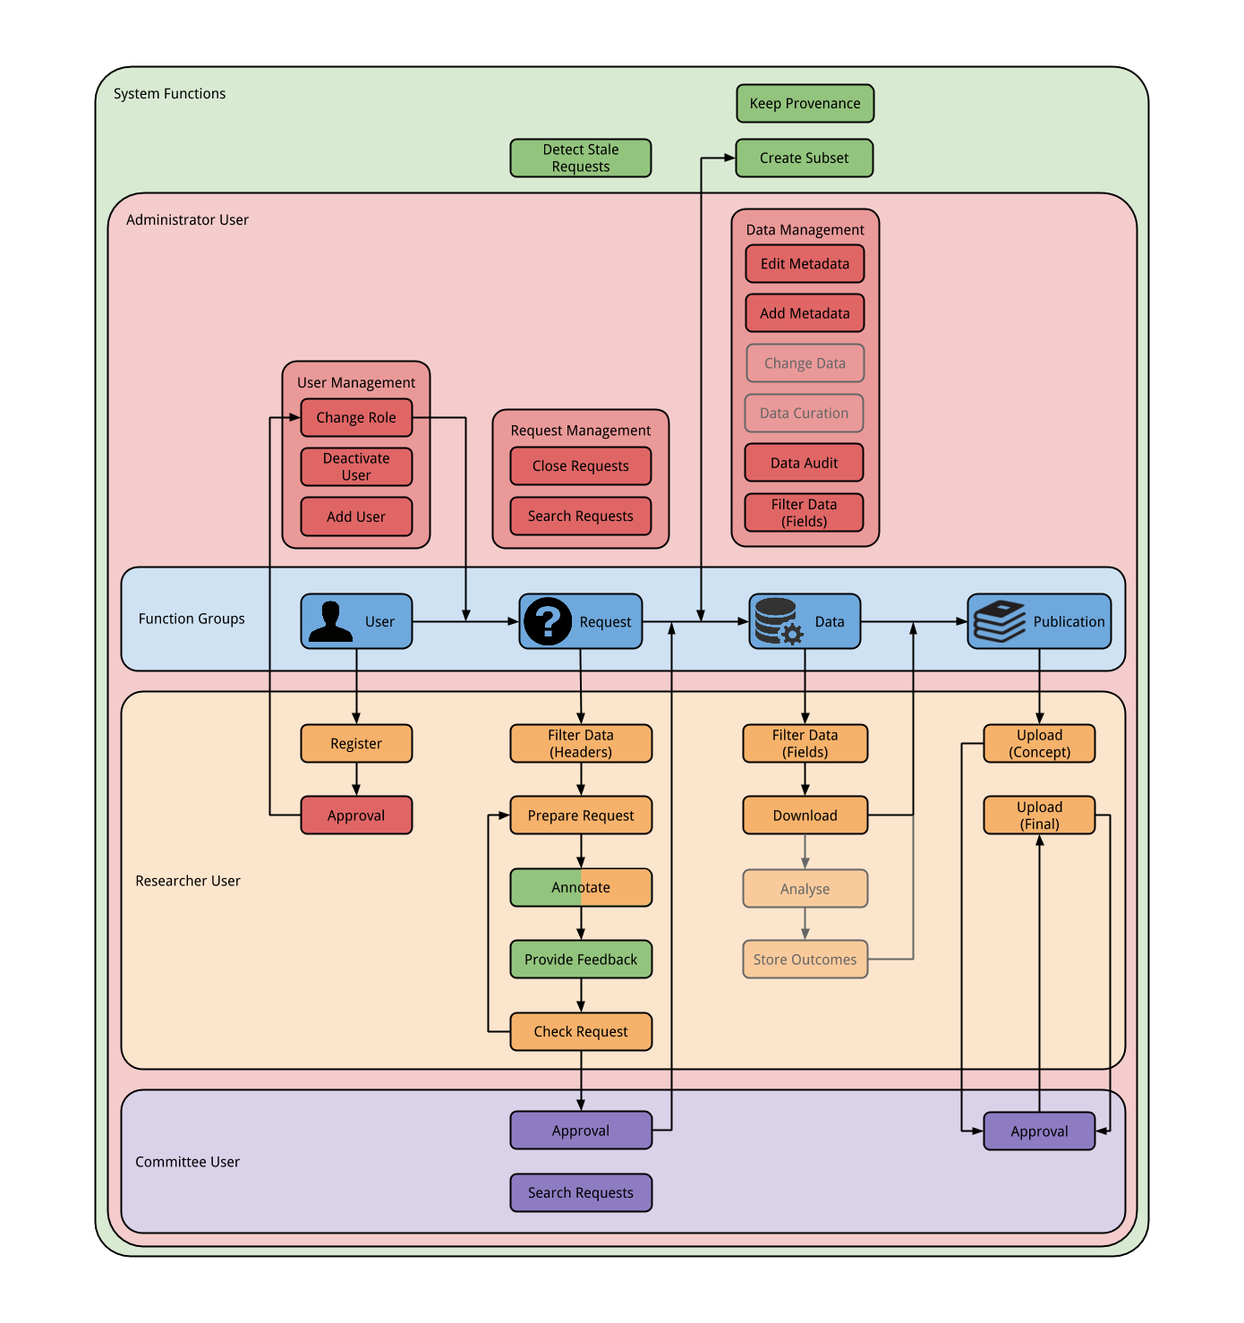
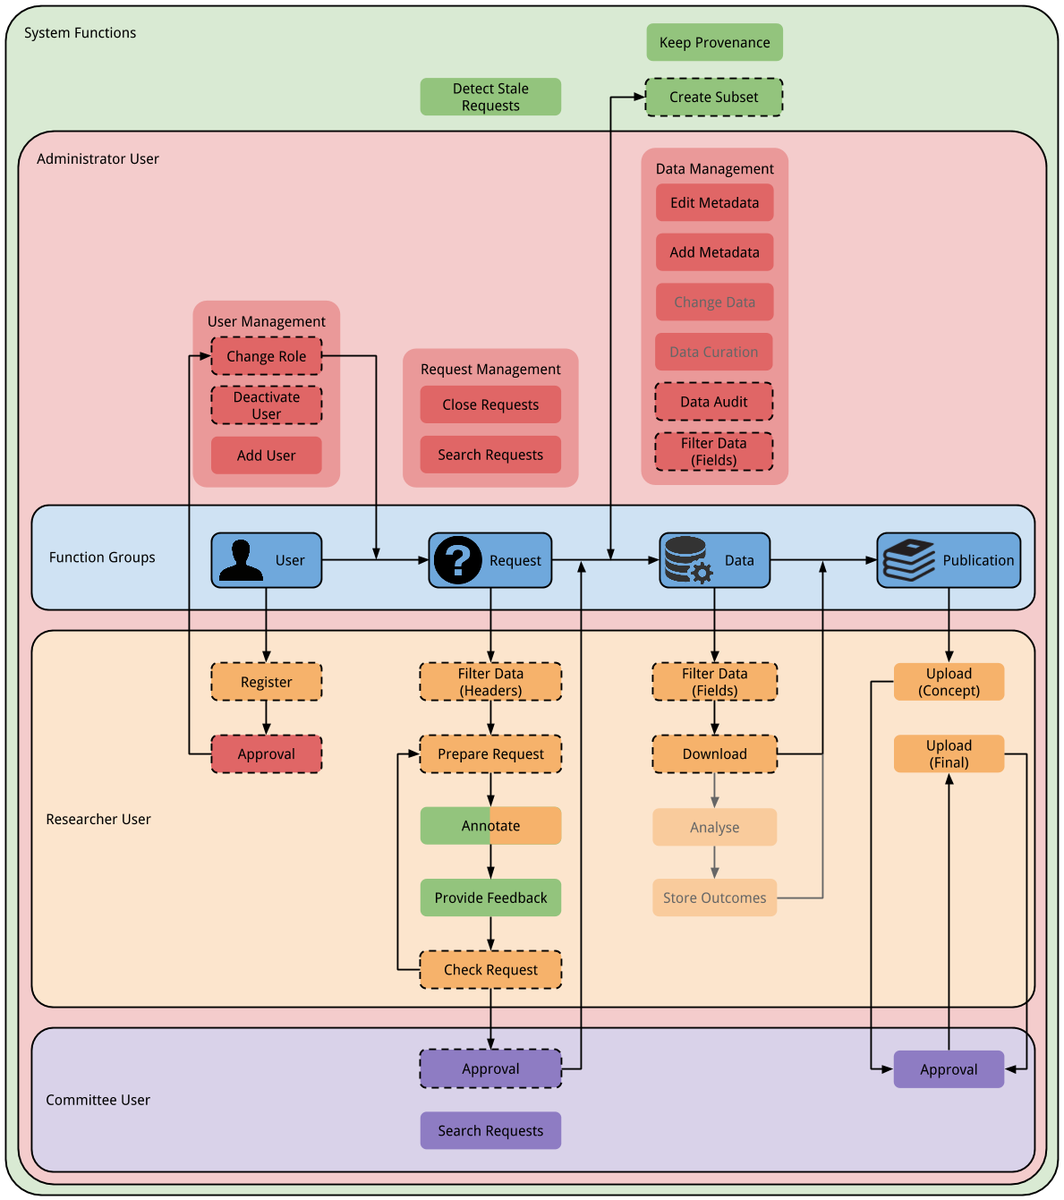
done up to section 3.2

diff --git a/partials/design-implementation/reuse-review.tex b/partials/design-implementation/reuse-review.tex
@@ -1,65 +1,79 @@
 \section{Technical Design Considerations}
 \label{reuse}
 
-%\subsection{Review}
-%\label{reuse-review}
+The data management is the most significant part of the \ivfsystem{} and therefore should be well implemented.
+Also implementation had to be done in a short time due to study planning restrictions, which were a result from the earlier mentioned data gathering issues.
 
-The data management
-is the most significant part of the \ivfsystem{} and therefore should be well implemented.
-Also implementation had to be done in a short time due to study planning restrictions.
+To speed up development multiple systems were considered and evaluated for reuse.
+Systems that have properties of clinical data management were sought for.
+From a list of systems three were included in an more in-depth evaluation presented below.
 
-Multiple systems were considered and evaluated for reuse.
-Because extensions would be needed, the system preferably had to be open-source.
-Three systems were included in an more in-depth evaluation presented below.
+\paragraph{Software reuse}
+The external software was identified through the paper of Leroux \cite{leroux2011}, in which five systems are listed: Oracle Clinical, Inform, Rave, DADOS Prospective, and OpenClinica.
+One system was found through internal communication within the AMC, namely Castor.
+The last system is an in-house project called Rosemary at the same department this study was conducted at.
 
-\silvia{put this info below in the right places}
-two externally developed open-source systems and one in-house project.
-The external software was identified through the paper of Leroux \cite{leroux2011}.
-
-\paragraph{External systems.}
-The external systems identified were OpenClinica and DADOS Prospective, 
-which are both open-source clinical trial management systems.
-OpenClinica \cite{} is ... - an online demo is available \cite{}.
-DADOS Prospective \cite{} is .....
-\silvia{maybe here you could list others that you have looked into, but that were no adequate? only names and references are ok. BTW: references to scientific pubs should be preferred to urls in all cases}
-
+All systems, except for Rosemary, are clinical trial management (CTM) software.
 Their focus lies on data entry and retrieval for low-level (researcher) users, and on research overview for high-level (management) users.
 Besides data entry, they also offer overviews displaying statistics on participants and the clinics they belong to, how many inclusions were made, follow-up percentages, etc.
+Rosemary is build to handle neuroimaging data and metadata, data analysis applications, and their execution on grid infrastructures.
 
-Data collection protocols can be defined per study in a very flexible manner.
+Four of the CTM systems are delivered under a proprietary license: Oracle Clinical, InForm, Castor, and Rave.
+Castor has a fair use for small trials, it is available for free (up to a maximum of 200 inclusions or 12 months study duration).
+However, the identified functions of the \ivfsystem{} demand that extensions have to be made.
+One firm requirement of the systems that are considered is that they have to be open-source to accommodate this.
+Also, no budget existed for the development of the system.
+Therefore, these systems were not included for an in-depth evaluation.
+
+\paragraph{Evaluation: external systems}
+The open-source external systems identified were OpenClinica\footnote{https://www.openclinica.com/} and DADOS Prospective \cite{dados}.
+Both systems were evaluated, OpenClinica based on their online demo and DADOS Prospective based on their publication.
+
+As said before the systems are CTM software and they both have approximately the same purpose.
+They provide per study data recording.
+Data collection protocols can be defined in a very flexible manner.
 After the protocol has been defined, it is fixed for all study participants.
-This is very useful in longer running (prospective) studies, where collection should be standardised for quality, analysis, and reuse purposes.
-In principle, as far as notable for OpenClinica, there are no features directly supporting data sharing or reuse.
-\silvia{this cannot be true. there is no concept of external people sharing data, but if people are made members of the study they can get access to the whole dataset. this is a different model than we want for our project, where there is no concept of study to create compartments for data and access control. please reformulate, better explaining the difference between a study-per-study recording system, as opposed to a registry of data that will serve external, ad-hoc data requests? }
+This is very useful in longitudinal studies, where collection should be standardised for study quality and analysis purposes.
+Also, the data model has already been proven by the fact that many researchers use these systems.
 
-\paragraph{In-house project: Rosemary.}
-\silvia{i think this can be improved. highlight metadata search functions}
-A system named Rosemary was built at the AMC to handle neuroimaging data and metadata, data analysis applications, and their execution on grid infrastructures.
-The data are brain images generated by Magnetic Resonance Imaging (MRI) scanners, and the 
-metadata refers to the subjects, the imaging session, etc. 
-These images are imported into the system from external data servers (XNAT\cite{}), selected by the user, and submitted for processing by analysis applications. Result are also stored in the system and used in further analysis.
-Input is restricted to automated functions and there are no manual input interfaces available.
-However, once data is in the system it allows for each data item to be used in access restricted subsets.
-This system data has interesting characteristics for metadata searching and ... ?
+In principle, as far as notable the desired options for data reuse are not supported.
+Reuse in these systems is at a study level, meaning that when a user is made a member of a study they can see and use all the data within.
+The philosophy for the \ivfsystem{} is to provide external data requests on a pool of data, which makes the model of the CTM systems less useful for this case.
 
-\paragraph{The better pick.}
-It quickly becomes apparent that no existing system is able to cover all the needed functionality, even when looking at only data management. \silvia{this sounds a bit out-of-the-blue without a clear definition of the functions you are after, and a consistent check for each one of the functions in the existing systems. if you would make a table it would be very clear to see that the systems do not fulfil, and which functions would be necessary to add in our prototype}
+\paragraph{Evaluation: In-house project}
+In Rosemary the data consists of brain images generated by Magnetic Resonance Imaging (MRI) scanners, and the metadata refers to the subjects, the imaging session, etc. 
+References to images are imported into the system from external data servers (XNAT \cite{xnat}), selected by the user, and submitted for processing by analysis applications. 
+Result are also stored in the system and used in further analysis.
+Data input is restricted to automated functions and there are no manual input interfaces available.
+
+The philosophy of Rosemary is to support researchers with managing of data, processing, and community.
+Data challenges are tackled by providing extensive search, filter, and selection functionality.
+Processing management is handled by automatically bundling submissions into processings which are then fed to one or multiple applications, this is rather uninteresting for the \ivfsystem{} case so it will not be discussed any further.
+And lastly, community is currently supported through descriptive notifications, messaging, and the notion of a `workspace'.
+A workspace contains a set of data, a researcher may define a workspace and share this with their colleagues by adding them as members.
+
+To fulfil the data management functionality each single item of data (called a `datum') can be supplemented with metadata.
+Data is given meaning through this metadata, this works at a human level but also at a system level.
+Metadata can be free text, but the system also uses some predefined objects.
+The most important metadata object is the `Tag', it can be appended to a datum and can fulfil multiple roles. 
+One of which being the identification of to what set of workspaces a datum belongs.
+
+Based on metadata the researcher can search and order their data.
+When data is added to the workspace a powerful search functionality is provided.
+It supports searches on the datum level but also on the metadata level.
+Initially the search is text-based and very fuzzy, but with the use of a query language the user can make the search specific.
+This query language ranges from keywords like `and/or' to restriction of search based on the name of a metadata field (\eg{} search for `patient123' but only in the field named `subject').
+
+\paragraph{The better pick}
 Based on several considerations, the decision was made to use the in-house Rosemary project for further development
-Flexibility in the code is important, \ie{} open-source, extensible, easy to develop. \silvia{but all 3 are open source, so no difference here}
-Next to this, short lines to expertise are useful for a quick development process, because once a (coding) problem is encountered it can be solved in a matter of hours.
-Lastly, during the evaluation process it became clear that the data model of Rosemary could be reused with minimal effort, \silvia{because... whereas the others ...}.
+The manner in which data and metadata are applied makes that the data model of Rosemary is very flexible.
+This is less useful for longer running projects which require very strict data entry rules.
+However, for the \ivfsystem{} data is an immutable set, namely the \projectdata{}.
+After a small survey it turned out that the dataset could be used directly with the existing data model.
 
-\silvia{this part was in next section, incorporate here somehow}
+Because Rosemary is an in-house project the survey to check the data model could be done directly with the lead developers, which brings us to the next consideration.
+Short lines of communication to expertise are useful for a quick development process, because once a (coding) problem is encountered it can be solved in a matter of hours.
 
-%\paragraph{Goodness of fit}
-\silvia{i have the feeling that this is still part of the previous section, to explain the choice. }
-To make clear how well Rosemary can be fitted to the \project{} first the functions of the current implementation will be described.
-As said in the previous section the system encompasses domain specific data and processing management. \silvia{you can forget processing management, right? focus focus focus ;-)}
-The shear amount of available data and metadata is what makes the data management in this case a challenge.
-
-Data management challenges are tackled by providing extensive search, filter, and selection functionality.
-Submission management is handled by automatically bundling submissions into processings which are then fed to one or multiple applications.
+Lastly, Rosemary tackles data management challenges by providing extensive search, filter, and selection functionality.
 Furthermore, notifications and messaging are supported.
-Notifications provide users with system status information. 
-For example, progress updates during a data import or when receiving a message.
-Messaging should enable collaborative work by wrapping research communication inside the same system as where the data resides.
+All of these functions are useful to some extent for the requirements of the \ivfsystem{}.

diff --git a/partials/design-implementation/reuse-rosemary.tex b/partials/design-implementation/reuse-rosemary.tex
@@ -1,14 +1,30 @@
-\section{Rosemary-based Design}
+\section{Rosemary Design}
 \label{reuse-rosemary}
 
+The overall workings of Rosemary have been described in the previous section.
+Below the architecture and data model will be explained before going into the implementation as done in the \ivfsystem{}, which will be described in the next section.
 
-Compared to the functional design (section \ref{function-design}) the most critical part of the system, data management, is mostly covered by Rosemary.
-Datasets are bound to \emph{workspaces}, which have an owner and members that can all view the data inside, effectively restricting data access.
-To enable  search and filtering, a specific model for raw data storage is used and supplemented with an extensive tagging system.
-The flexibility of this system means that part of the request and the whole data management requirements can be implemented with minimal changes.
+\begin{figure}[!hb]
+	\centering
+	\includegraphics[width=1.0\linewidth]{images/rosemary-architecture}
+	\caption{
+		Rosemary architecture with domain specific items removed.
+		Describes the implementation of the back-end and the front-end.
+		Together with the specific build tools used during development.
+	}
+	\label{fig:reuse-rosemary-architecture}
+\end{figure}
 
-User management can be totally reused, but it will need extensions to provide for the necessary user roles.
-Furthermore, request and publication management will need to be introduced into the system.
+\paragraph{Architecture}
+For the Rosemary back-end the Play Framework\footnote{https://www.playframework.com/} is used.
+It is written with the Scala\footnote{http://www.scala-lang.org/} programming language which is interoperable with Java.
+As a database mongoDB\footnote{https://www.mongodb.org/} is used, a document-oriented database.
+Communication between the back-end and the database is done with JSON\footnote{http://json.org/} and the Scala library `Salat' is used to serialise the JSON information into Scala classes.
+The back-end exposes a RESTful API which can be accessed through the front-end.
+
+The front-end is based on the AngularJS\footnote{https://angularjs.org/} framework and coded with Coffeescript\footnote{http://coffeescript.org/} which is compiled into JavaScript.
+For layout and styling HTML and Less\footnote{http://lesscss.org/} are used, Less compiles into CSS.
+To provide a pleasant user experience the front-end is developed as a web application, data is loaded asynchronous and stored at the client's side to give the feel of a native application.
 
 \begin{figure}[!hb]
 	\centering
@@ -21,16 +37,21 @@ Furthermore, request and publication management will need to be introduced into 
 	\label{fig:reuse-rosemary-dm}
 \end{figure}
 
-\silvia{i believe that from here you actually describe the prototype. keep clear what was rosemary, what is new, or what has been adapted. maybe it is not so relvant to stress the differences, but to have a complete and understandable explantion of what you have done}
 \paragraph{Data model}
-Figure \ref{fig:reuse-rosemary-dm} depicts the Rosemary data model where the (\ie{} domain specific) items are removed.
-%A full view of the data model can be seen in appendix \ref{unedited-datamodel}.
-Implementation is done in mongoDB, a document-oriented database \cite{}.
-\silvia{present the main entities of the model here. the figure should stay in the body}
+Figure \ref{fig:reuse-rosemary-dm} depicts the Rosemary data model where the domain specific items are removed.
+This model describes six main data objects: {\tt Datum}, {\tt Tag}, {\tt Rights}, {\tt User}, {\tt Notification}, and {\tt Thread}.
+The {\tt Tag}, {\tt Notification}, and {\tt Rights} objects are inherited to describe a specific instance, for example the {\tt WorkspaceTag} is a {\tt Tag}.
+
+A short description of the main object will be given for better understanding of the model.
+A {\tt Datum} is a single piece of data and its metadata, for the Rosemary case a {\tt Datum} might be a reference to an MRI image and metadata about the scanned patient.
+{\tt Datum}s may be tagged with the {\tt Tag} object, for example, the {\tt UserTag} is a tag defined by the user and attached to a set of {\tt Datum}s for identification.
+{\tt Tag}s are also used to manage access rights, each tag has a specific {\tt Rights} attached to it.
+Based on the set of {\tt User}s which is assigned to the {\tt Rights} the system can restrict access to certain data.
+The {\tt Notification} object stores data about process milestones which can be displayed in the user interface, for example when a message is send.
+Lastly, the {\tt Thread} keeps track of messages send back and forth in conversations.
+
 The data model and its implementation provide some interesting possibilities.
-%What is described in figure \ref{fig:reuse-rosemary-dm} 
-A {\tt Datum} is a single piece of raw data, \ie{} a row in a relational database.
-This data can be tracked and reused endlessly by applying a {\tt Tag} object.
-For example, access control can be applied by tagging a {\tt Datum} with a {\tt WorkspaceTag} which is owned by a {\tt User}.
+For example, a {\tt Datum} can be tracked and reused endlessly by applying a {\tt Tag} object.
+One use of this is access control, which can be applied by tagging a {\tt Datum} with a {\tt WorkspaceTag} which is owned by a {\tt User}.
 Many different constructs of this sort can be achieved without ever touching the structure of the actual model itself.
-The reuse in the \ivfsystem{} relies heavily on this concept, which means only slight changed had to be made to the original data objects.
+%The reuse in the \ivfsystem{} relies heavily on this concept, which means only slight changed had to be made to the original data objects.

diff --git a/partials/design-implementation/function-design.tex b/partials/design-implementation/function-design.tex
@@ -1,18 +1,20 @@
-\silvia{i think you can start directly with text, w/o subsection. every chapter needs an intro anyways}
+% Then here in sect 3 you say that the prototype will address part of the requirements (be explicit about which ones) and move on with the system design.
 
-\silvia{there is too much talking about the brainstorm in this section. the requirements (from brainstorm, literature etc) should become clear in section 2, and then here you just refer to the requirements. which makes me realize that one subsection of chap 2 should be "system requirements", where you put the final set. i guess in sect 2 there are functional requirments (the function grpups) and non-functional - security, etc. Then here in sect 3 you say that the prototype will address part of the requirements (be explicit about which ones) and move on with the system design. i think fig 3.1 is the best to illustrate the flow and the functions (just make sure it is complete or put clearly in the caption which part is missing}
+From requirement analysis the development moves on to the design of the system and implementation.
+First the functional design will be described, after that the specific decisions considering implementation are discussed.
+These concern reuse of existing software, the data model, the system's architecture, and user-interface design.
 
-\paragraph{Visualised}
-
-Each of the functions are mapped out according to the following story:
+The last chapter resulted in a compact list of requirements, which are now translated into functions.
+An unordered list of functions can be found in appendix \ref{identified-functions}, however it is more interesting to order these functions according to a workflow.
+This is done according to the following research cycle story:
 
 \begin{quotation}
-	\noindent A researcher wants to investigate a certain hypothesis on the \project{} dataset.
+	\noindent{} A researcher wants to investigate a certain hypothesis on the \project{} dataset.
 	He or she needs to register an account with the system which is then checked and approved by the data manager.
 	
 	Next, the researcher formulates a data request using the system.
 	From the data dictionary the researcher searches (filters) for the appropriate data items (names of data items are called ``headers'').
-	The researcher creates the request with the necessary information required by the committee to decide (data headers and research question).
+	The researcher creates the request document with the necessary information required by the committee to decide.
 	The system provides feedback based on the selected fields and automatically detected keywords.
 	Based on this feedback the researcher can edit the request or send it for approval.
 	The committee checks and approves the request.
@@ -21,12 +23,14 @@ Each of the functions are mapped out according to the following story:
 	The researcher filters this subset and downloads a selection of the data.
 	Another possible path is that the researcher prepares the data for analysis on the system and the outcomes are stored.
 	
-	To complete the request the researcher uploads the, paper which is then again approved by the committee.
+	To complete the request the researcher uploads the paper which is then again approved by the committee.
 \end{quotation}
 
-In figure \ref{fig:functions-workflow} each of the functions belong to a certain actor (human or system), this is depicted by the colour of the actor block (light shade) and the corresponding colour of the function block (dark shade).
+\noindent{} The resulting of the mapping is shown in figure \ref{fig:functions-workflow}.
+Each of the functions belong to a certain actor (human or system), this is depicted by the colour of the actor block (light shade) and the corresponding colour of the function block (dark shade).
 The function groups are exempted from this rule as they only exist to give structure to the figure.
 During the brainstorm session weight was given to the requirements, functions with less need for immediate implementation are displayed greyed-out (\ie{} change data, data curation, analyse, store outcomes).
+Not all requirements were implemented in the final prototype, functions that were included have a dashed border.
 
 \begin{figure}[!htb]
 	\centering
@@ -35,6 +39,7 @@ During the brainstorm session weight was given to the requirements, functions wi
 		Gateway functions according to function groups, actors, and usage within the research workflow.
 		Vertical columns represent different function groups, colours are used for different user roles, and arrows indicate sequence of actions.
 		Greyed-out functions are deemed less important, which was an outcome of the brainstorm session (see section \ref{brainstorm}).
+		Functions that were included in the final prototype are marked with a dashed border.
 	}
 	\label{fig:functions-workflow}
 \end{figure}

diff --git a/partials/design-implementation/implementation-processes.tex b/partials/design-implementation/implementation-processes.tex
@@ -1,16 +1,9 @@
 \section{Implementation}
 
-%\subsection{Processes}
-
-\begin{figure}[!b]
-	\centering
-	\includegraphics[width=1.0\linewidth]{images/functions-implemented}
-	\caption{
-		Mapping of functions after implementation considerations according to function groups, actors, and research workflow.
-		Greyed-out functions are implemented through place holders. \silvia{so they are not in prototype? and what is the difference between this and 3.1?}
-	}
-	\label{fig:functions-implemented}
-\end{figure}
+% Functions as implemented
+% Architecture as implemented
+% Datamodel as implemented
+% Design as implemented
 
 \silvia{instead of presenting what has been done, this section is about what has not been done. it does not seem useful to spend so much space on describing things that were not done.
 please make sure to describe the complete story (all requirements and all functions) in one place, and mark those that were not included in the prototype. the discussion about what was included and what was not can be part of discussion and conclusions - and not mixed in the implementation description. here you should clearly present what have been done, with technical details but with scientific language (methods, results, evaluation). }

diff --git a/partials/requirements/final-concept.tex b/partials/requirements/final-concept.tex
@@ -32,3 +32,11 @@ Also data about the request and publications is now stored in the system, these 
 A lot of differences exist between the schema before and after the brainstorm, an side-by-side comparison is supplied in appendix \ref{brainstorm-before-after}.
 The main assumption of a data support system had the wrong focus, it is now supplemented with increased request management and the addition of user and publication management.
 While data handling functions like searching, security restriction, auditing, or annotating with metadata are important in this system there are more side effects of research that have to be taken into account.
+
+\paragraph{Conclusion: requirements}
+Most of the requirements for this system are functional.
+This means that the specific needs of end-users of the system lead to the requirement.
+There are also a few requirements which are non-functional, these are derived from the external components and security.
+All requirements are listed in the `System' section of figure \ref{fig:brainstorm-after}.
+
+\allard{Put list of requirements in text as well?}
